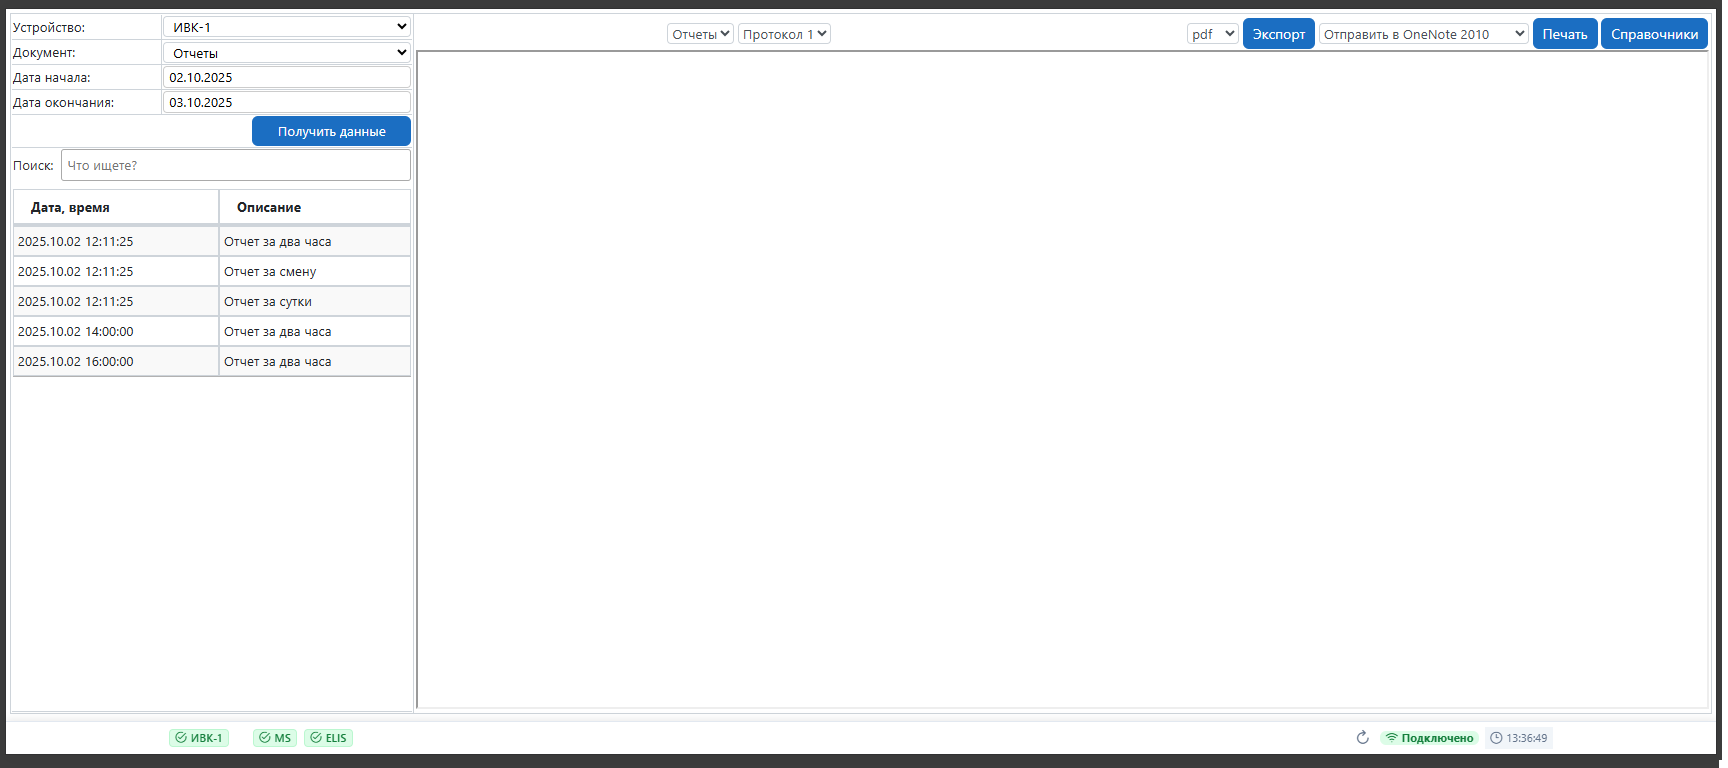
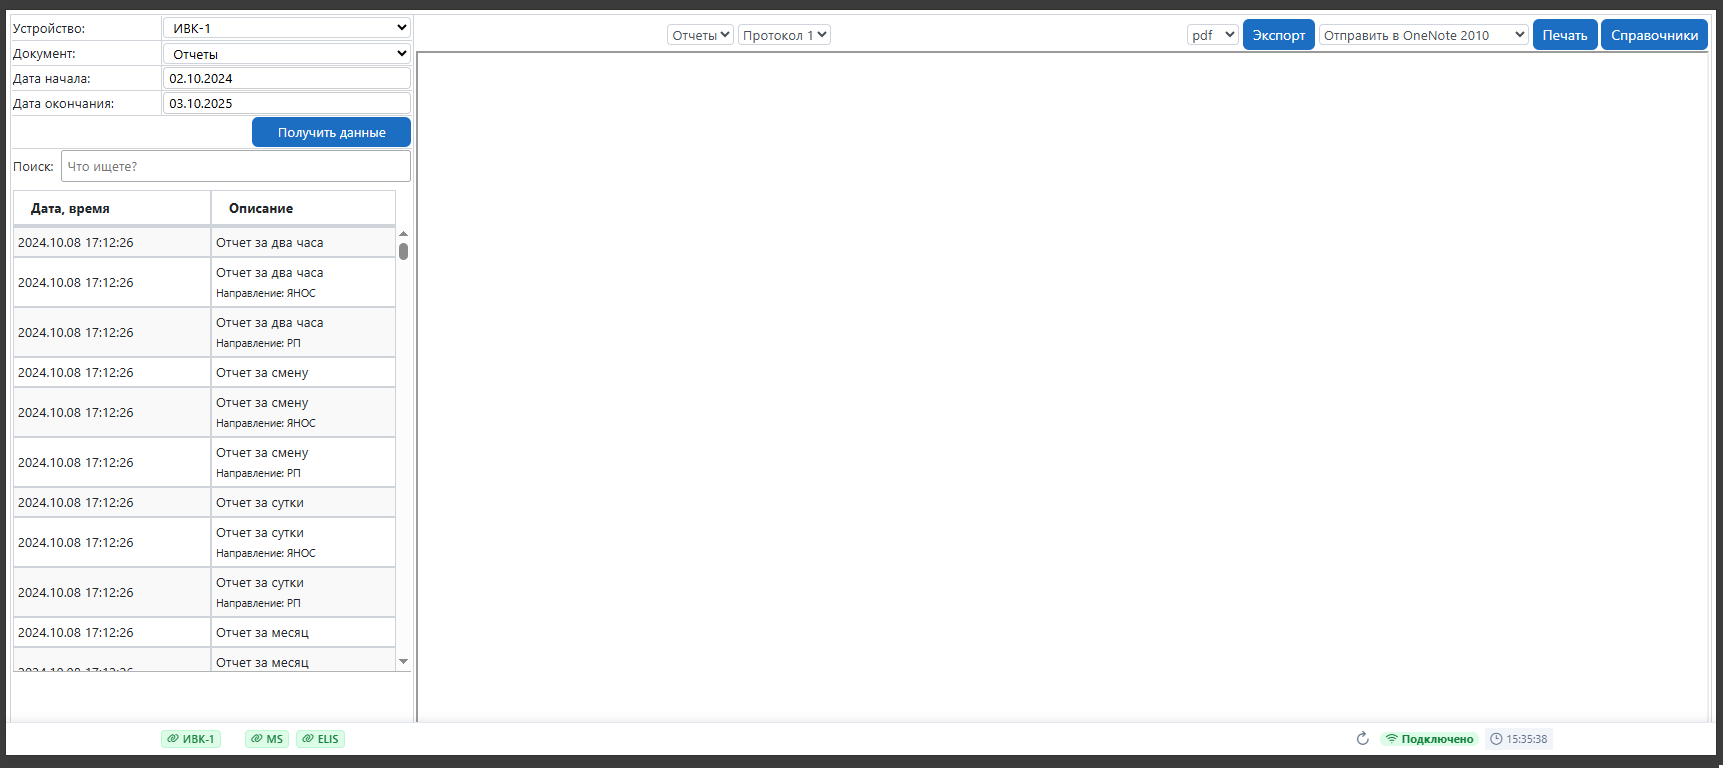
update

diff --git a/TN_Doc/wwwroot/css/newstyle.css b/TN_Doc/wwwroot/css/newstyle.css
@@ -3,16 +3,14 @@
     height: 100vh;
     margin: 0!important;
     padding: 0.5vh!important;
-    padding-bottom: 0!important;
 }
 
 body>div.container {
     width: 100%;
-    height: calc(100vh - 28px) !important;
+    height: 100%;
     max-width: initial!important;
     margin: 0!important;
     padding: 0!important;
-    padding-bottom: 0!important;
 }
 
 .cont {